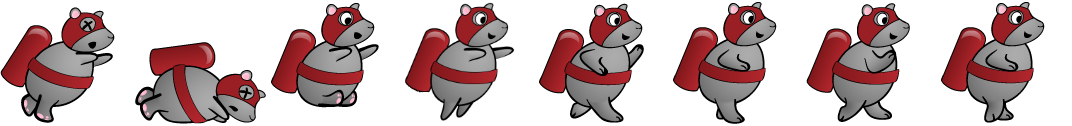
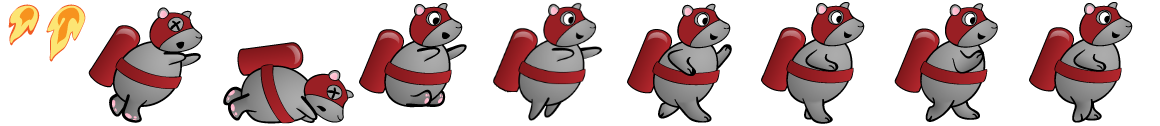
Add jetpack and fly/fall animations

diff --git a/src/game/RocketMouse.ts b/src/game/RocketMouse.ts
@@ -1,0 +1,68 @@
+import Phaser from "phaser";
+import TextureKeys from "~/consts/TextureKeys";
+import AnimationKeys from "~/consts/AnimationKeys";
+
+export default class RocketMouse extends Phaser.GameObjects.Container {
+  private flames: Phaser.GameObjects.Sprite;
+  private cursors: Phaser.Types.Input.Keyboard.CursorKeys;
+  private mouse: Phaser.GameObjects.Sprite;
+
+  enableJetpack(enabled: boolean) {
+    this.flames.setVisible(enabled);
+  }
+
+  constructor(scene: Phaser.Scene, x: number, y: number) {
+    super(scene, x, y);
+
+    // create the Rocket Mouse sprite
+    this.mouse = scene.add
+      .sprite(0, 0, TextureKeys.RocketMouse)
+      .setOrigin(0.5, 1)
+      .play(AnimationKeys.RocketMouseRun);
+
+    // create the flames and play the animation
+    this.flames = scene.add
+      .sprite(-63, -15, TextureKeys.RocketMouse)
+      .play(AnimationKeys.RocketFlamesOn);
+
+    this.enableJetpack(false);
+    this.add(this.flames);
+
+    // add as child of Container
+    this.add(this.mouse);
+
+    // add a physics body
+    scene.physics.add.existing(this);
+
+    // adjust physics body and offset
+    const body = this.body as Phaser.Physics.Arcade.Body;
+    body.setSize(this.mouse.width, this.mouse.height);
+    body.setOffset(this.mouse.width * -0.5, -this.mouse.height);
+
+    this.cursors = scene.input.keyboard.createCursorKeys();
+  }
+
+  preUpdate() {
+    const body = this.body as Phaser.Physics.Arcade.Body;
+
+    // check if is space bar down
+    if (this.cursors.space?.isDown) {
+      body.setAccelerationY(-600);
+      this.enableJetpack(true);
+
+      this.mouse.play(AnimationKeys.RocketMouseFly, true);
+    } else {
+      body.setAccelerationY(0);
+      this.enableJetpack(false);
+    }
+
+    // check if touching the ground
+    if (body.blocked.down) {
+      // play run when touching the ground
+      this.mouse.play(AnimationKeys.RocketMouseRun, true);
+    } else if (body.velocity.y > 0) {
+      // play fall when no longer ascending
+      this.mouse.play(AnimationKeys.RocketMouseFall, true);
+    }
+  }
+}

diff --git a/src/scenes/Preloader.ts b/src/scenes/Preloader.ts
@@ -31,13 +31,49 @@ export default class Preloader extends Phaser.Scene {
   }
 
   create() {
+    // mouse running animation
     this.anims.create({
       key: AnimationKeys.RocketMouseRun,
-      frames: this.anims.generateFrameNames("rocket-mouse", {
+      frames: this.anims.generateFrameNames(TextureKeys.RocketMouse, {
         start: 1,
         end: 4,
         prefix: "rocketmouse_run",
         zeroPad: 2,
+        suffix: ".png",
+      }),
+      frameRate: 10,
+      repeat: -1,
+    });
+
+    // fall animation
+    this.anims.create({
+      key: AnimationKeys.RocketMouseFall,
+      frames: [
+        {
+          key: TextureKeys.RocketMouse,
+          frame: "rocketmouse_fall01.png",
+        },
+      ],
+    });
+
+    //fly animation
+    this.anims.create({
+      key: AnimationKeys.RocketMouseFly,
+      frames: [
+        {
+          key: TextureKeys.RocketMouse,
+          frame: "rocketmouse_fly01.png",
+        },
+      ],
+    });
+
+    // create the flames animation
+    this.anims.create({
+      key: AnimationKeys.RocketFlamesOn,
+      frames: this.anims.generateFrameNames(TextureKeys.RocketMouse, {
+        start: 1,
+        end: 2,
+        prefix: "flame",
         suffix: ".png",
       }),
       frameRate: 10,

diff --git a/src/scenes/Game.ts b/src/scenes/Game.ts
@@ -2,6 +2,7 @@ import Phaser from "phaser";
 import TextureKeys from "~/consts/TextureKeys";
 import SceneKeys from "~/consts/SceneKeys";
 import AnimationKeys from "~/consts/AnimationKeys";
+import RocketMouse from "~/game/RocketMouse";
 
 export default class Game extends Phaser.Scene {
   private background!: Phaser.GameObjects.TileSprite;
@@ -149,19 +150,11 @@ export default class Game extends Phaser.Scene {
 
     this.bookcases = [this.bookcase1, this.bookcase2];
 
-    const mouse = this.physics.add
-      .sprite(
-        width * 0.5,
-        height - 30, // set y to top of the floor
-        TextureKeys.RocketMouse,
-        "rocketmouse_fly01.png"
-      )
-      .setOrigin(0.5, 1) // set origin to feet
-      .play(AnimationKeys.RocketMouseRun);
+    const mouse = new RocketMouse(this, width * 0.5, height - 30);
+    this.add.existing(mouse);
 
     const body = mouse.body as Phaser.Physics.Arcade.Body;
     body.setCollideWorldBounds(true);
-
     body.setVelocityX(200);
 
     this.physics.world.setBounds(0, 0, Number.MAX_SAFE_INTEGER, height - 30);

diff --git a/src/consts/AnimationKeys.ts b/src/consts/AnimationKeys.ts
@@ -1,5 +1,8 @@
 enum AnimationKeys {
   RocketMouseRun = "rocket-mouse-run",
+  RocketFlamesOn = "rocket-flames-on",
+  RocketMouseFall = "rocket-mouse-fall",
+  RocketMouseFly = "rocket-mouse-fly",
 }
 
 export default AnimationKeys;

diff --git a/src/main.ts b/src/main.ts
@@ -11,6 +11,7 @@ const config: Phaser.Types.Core.GameConfig = {
     default: "arcade",
     arcade: {
       gravity: { y: 200 },
+      debug: true,
     },
   },
   scene: [Preloader, Game],
